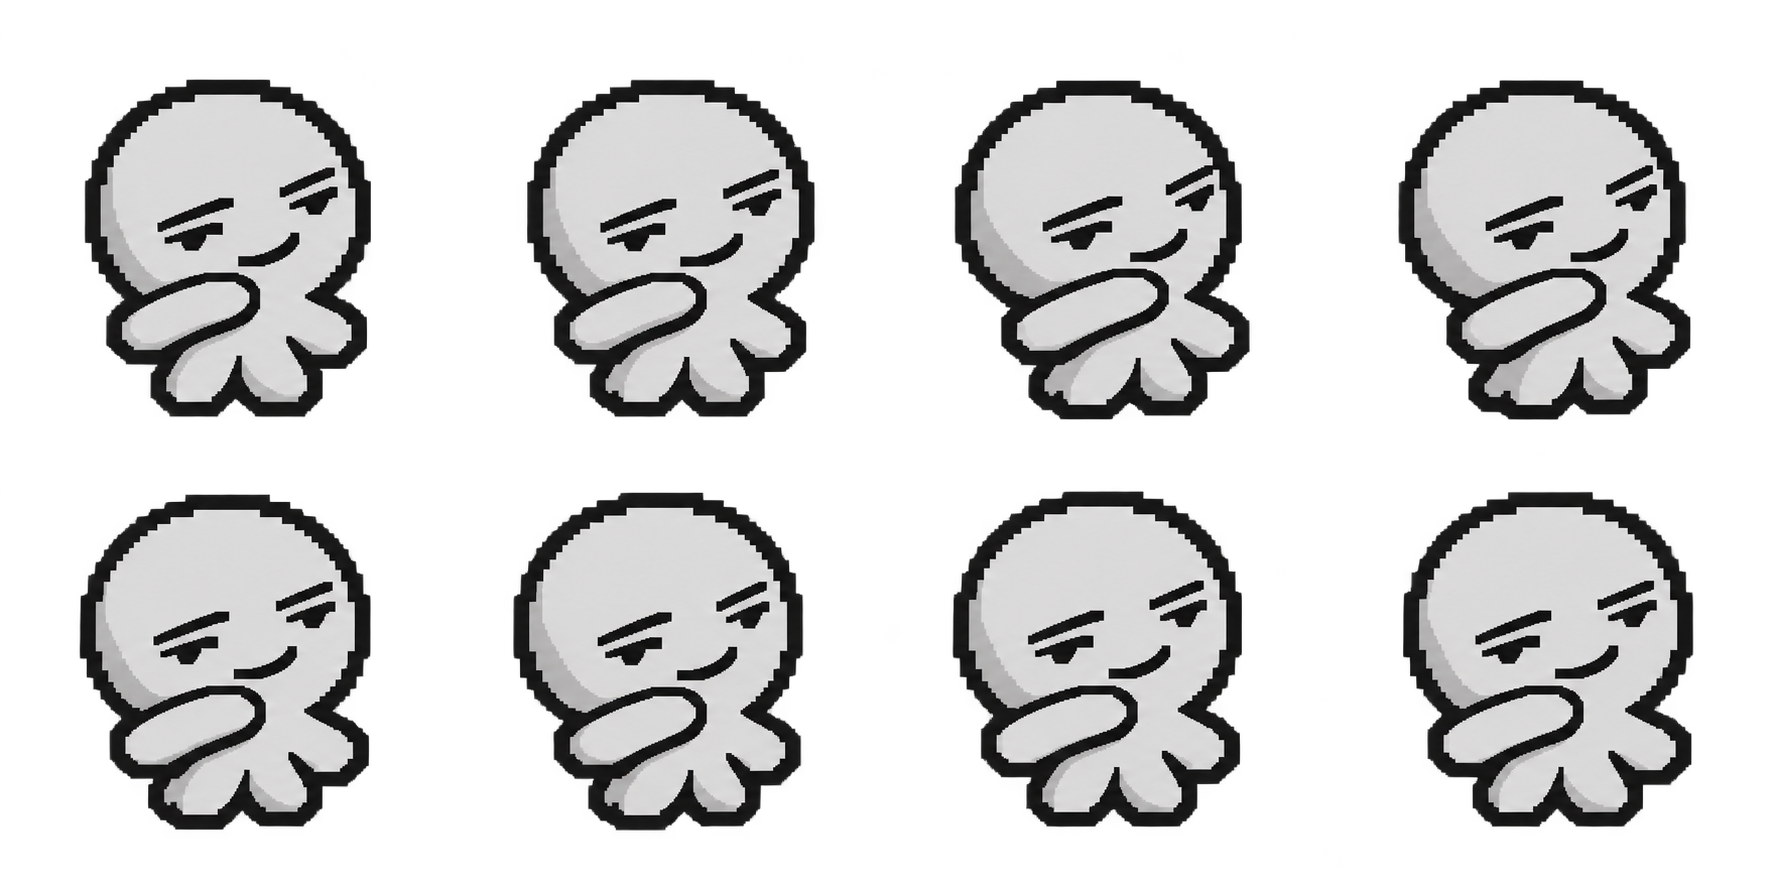
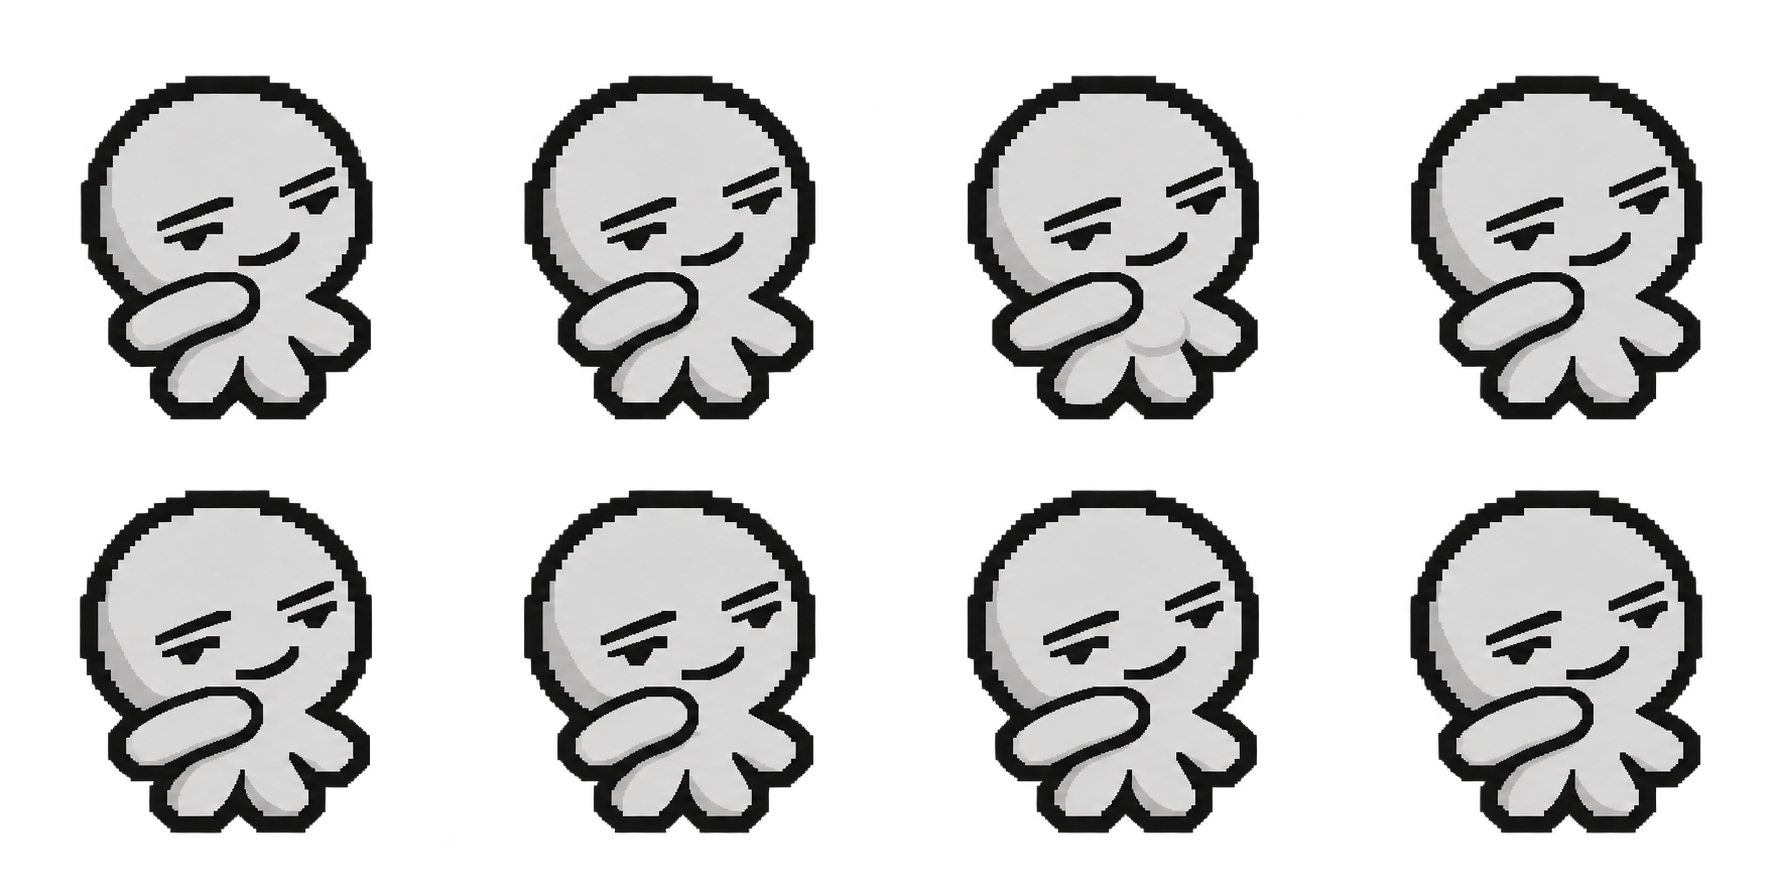
캐릭터: 승리 모션 몸 흔들림을 가슴 팝으로 수정

diff --git a/docs/검증/octopus-character-assets/README.md b/docs/검증/octopus-character-assets/README.md
@@ -10,7 +10,7 @@
 | 이동 | [walk-64.png](walk-64.png) | 4 | 각 130 ms |
 | 멈춤 | [stop-64.png](stop-64.png) | 4 | 100 / 90 / 120 / 650 ms |
 | 피격 | [hit-64.png](hit-64.png) | 4 | 100 / 90 / 140 / 750 ms |
-| 승리 | [victory-64.png](victory-64.png) | 8 | 160 / 90 / 50 / 70 / 90 / 110 / 130 / 180 ms |
+| 승리 | [victory-64.png](victory-64.png) | 8 | 240 / 70 / 40 / 60 / 90 / 90 / 100 / 190 ms |
 
 각 시트는 64×64 셀을 가로로 붙인 RGBA PNG다. 정규화된 발 기준 pivot=(0.5, 0.125). 원본 생성 시트는 source/에 보존했다. 셀 분리·공통 크기 조정은 원본을 다시 그리지 않고 nearest-neighbor로 수행했다. 동작별 원본 비례를 유지하고 프레임 간 발 기준을 맞췄다.
 
@@ -22,8 +22,8 @@ Unity 가져오기 권장: Sprite (2D and UI), Multiple, Grid by Cell Size 64×6
 - [승리 춤 GIF](victory-preview.gif)
 - [대기](idle-preview.gif), [이동](walk-preview.gif), [멈춤](stop-preview.gif), [피격](hit-preview.gif)
 
-승리 모션은 사용자가 지정한 [최산 BAD 쇼츠](https://www.youtube.com/shorts/4K5AkSQpr2w)의 가슴 팝과 가슴 앞 손 동작을 문어 촉수로 각색했다. 몸통의 작은 팝과 같은 앞쪽 촉수의 밀기·당기기만 0.88초로 반복한다. 사용자 요청으로 몸통을 화면 오른쪽 사선으로 조금 더 틀었다. 얼굴은 관객 쪽으로 살짝 되돌리고, 반대편 촉수의 길이·겹침과 옆면 음영으로 깊이 방향의 회전을 표현했다. 64×64 크기에 맞춰 가슴 움직임은 작게 유지하고, 두 안쪽 발은 고정했다. 이마 손짓·팔 펼침·다른 춤 구간은 제외했다. 원곡 음원이나 영상 프레임은 에셋에 포함하지 않았다.
+승리 모션은 사용자가 지정한 [최산 BAD 쇼츠](https://www.youtube.com/shorts/4K5AkSQpr2w)의 가슴 팝과 가슴 앞 손 동작을 문어 촉수로 각색했다. 오른쪽 사선 자세를 유지한 채, 가슴 아래쪽의 작은 수축·팝·이완과 같은 앞쪽 촉수의 작은 밀기·당기기만 0.88초로 반복한다. 사용자 요청에 따라 프레임마다 몸을 더 틀거나 흔드는 동작은 제거했다. 머리 위치·높이와 발 기준은 고정하고, 40ms 팝 정점 뒤 곧바로 힘을 풀어 가슴이 짧게 뛰는 박자로 조정했다. 반대편 촉수의 겹침과 옆면 음영은 고정 사선 자세를 표현한다. 이마 손짓·팔 펼침·다른 춤 구간은 제외했다. 원곡 음원이나 영상 프레임은 에셋에 포함하지 않았다.
 
-승리 시트는 알파 128 초과 영역의 경계를 기준으로 셀을 분리하고, 전체 프레임 높이 중앙값이 44픽셀이 되는 공통 배율을 적용했다. 각 프레임의 아래쪽 8% 불투명 영역 중심을 발 앵커로 삼아 x=32, 하단 y=56에 정렬했다. GIF는 256×256 nearest-neighbor 확대, 배경 RGB(222,216,199), 무한 반복이다. 전체 미리보기는 새 승리 2회 분량인 1.76초이며 각 동작의 실제 프레임 전환 시점을 사용한다.
+승리 시트는 알파 128 초과 영역의 경계를 기준으로 셀을 분리하고, 전체 프레임 높이 중앙값이 44픽셀이 되는 공통 배율을 적용했다. 움직이는 손 때문에 몸이 좌우로 밀리지 않도록 위쪽 45%의 머리 외곽 중심을 x=32에 정렬하고, 하단 발 기준은 y=56으로 맞췄다. 최종 8프레임 높이는 모두 44픽셀이다. GIF는 256×256 nearest-neighbor 확대, 배경 RGB(222,216,199), 무한 반복이다. 전체 미리보기는 새 승리 2회 분량인 1.76초이며 각 동작의 실제 프레임 전환 시점을 사용한다.
 
 제작: imagegen 내장 도구. 정확한 생성·수정 프롬프트는 [prompts.json](prompts.json), 셀 크기·피벗·프레임별 시간은 [manifest.json](manifest.json)에 기록했다. PNG 알파와 시트 크기, 모든 GIF의 프레임 디코딩 및 승리 8프레임의 외형·촉수 연결을 확인했다. 대기·이동·멈춤·피격 에셋은 기존 파일 그대로 유지했다.

diff --git a/docs/구조/characters/NOTES.md b/docs/구조/characters/NOTES.md
@@ -4,4 +4,4 @@
 
 - 카메라 11, 캐릭터 화면 높이 4%. Shift+이동 방향 대시(22속도, 0.18초), 3초 순차 충전, 기본 1회/희귀 강화 2회. 서버 판정과 지형 충돌을 사용하며 다운·전투 종료 시 진행 중 대시를 취소한다.
 
-- 2026-10-16: 사용자 회색 문어 그림을 기준으로 대기/이동/멈춤/피격 각4프레임, 승리8프레임(총24) 투명 PNG 에셋 제작. 승리는 지정 BAD 쇼츠의 작은 가슴 팝과 가슴 앞 촉수의 밀기·당기기만 0.88초 반복으로 수정했고, 이마 손짓/팔 펼침은 제거했다. 후속 요청에 따라 몸통을 오른쪽 사선으로 더 틀고 반대편 촉수 겹침·옆면 음영으로 회전을 표현했다. 작은 팝·손 동작과 다른 네 동작은 유지. 64×64 공통 셀과 발 피벗, 전체/동작별 GIF 및 알파 검증. docs/검증/octopus-character-assets에 원본·시트·프롬프트·미리보기 저장. 실제 플레이어 교체는 미적용.
+- 2026-10-16: 사용자 회색 문어 그림으로 대기/이동/멈춤/피격 각4프레임, 승리8프레임 투명 PNG 제작. 승리는 지정 BAD 쇼츠의 가슴 팝·가슴 앞 촉수 동작을 0.88초 반복으로 각색. 최종 요청에 맞춰 오른쪽 사선 자세는 고정하고 몸 전체의 흔들림·추가 회전을 제거, 가슴 부분만 빠르게 수축·팝·이완하도록 수정했다. 머리 중심·발 기준으로 정렬해 8프레임 높이44픽셀 유지. 이마 손짓/팔 펼침 제외, 다른 네 동작 유지. docs/검증/octopus-character-assets의 PNG/GIF/프롬프트·메타데이터 갱신 및 검증. 실제 플레이어 교체는 미적용.
